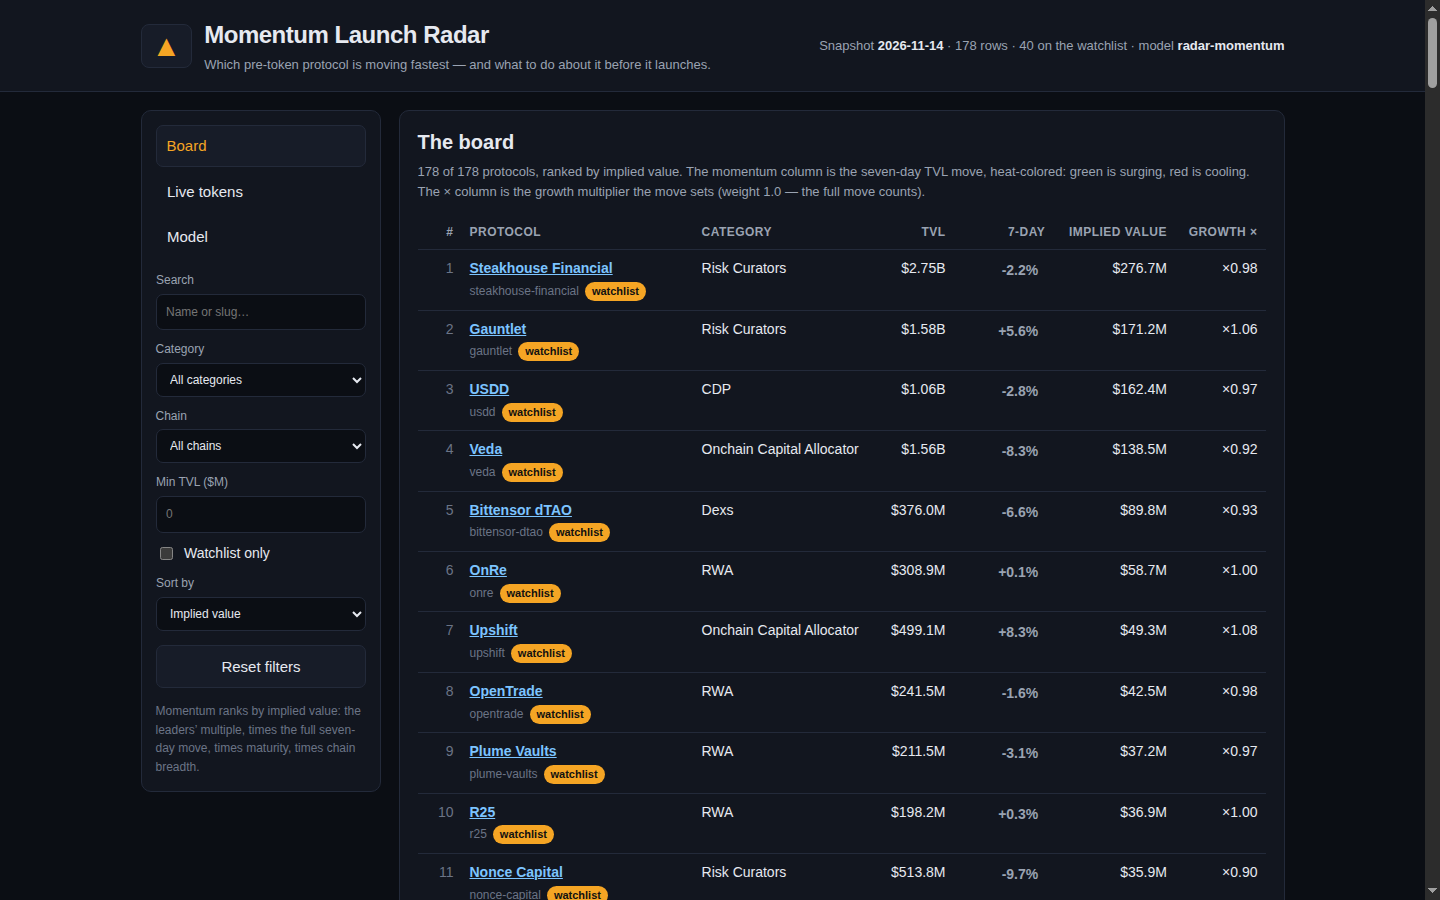
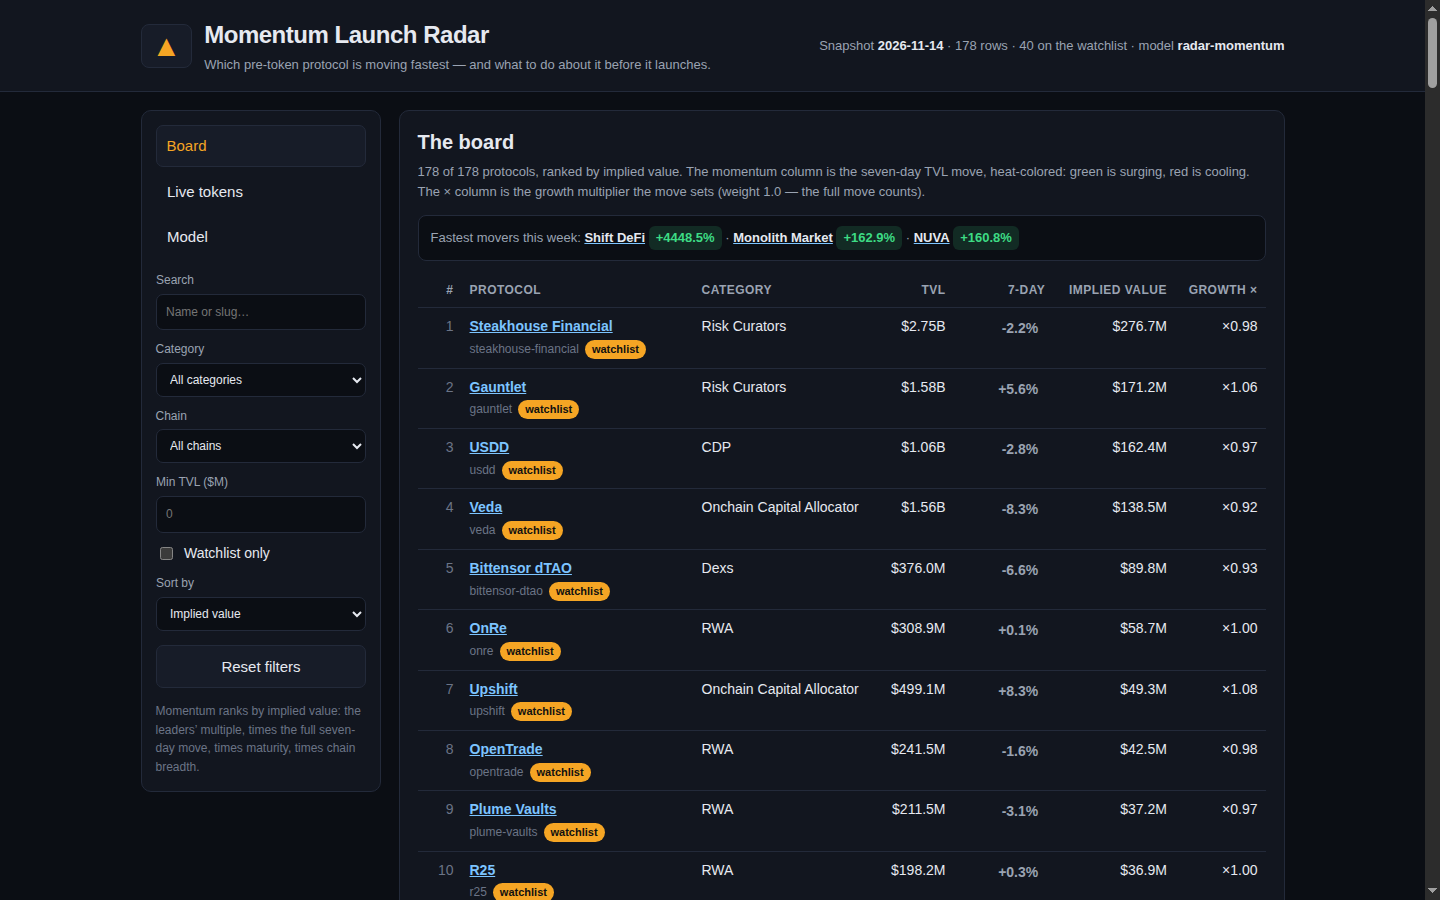
Momentum Launch Radar: fastest-movers strip, fix fallback leaders median

diff --git a/dashboard/app.js b/dashboard/app.js
@@ -168,10 +168,18 @@ function rowHtml(r) {
 
 function renderBoard() {
   var rows = filteredRows();
+  var movers = R.rows.slice().sort(function (a, b) {
+    return (b.change_7d == null ? -Infinity : b.change_7d) - (a.change_7d == null ? -Infinity : a.change_7d);
+  }).slice(0, 3);
+  var moverHtml = movers.map(function (r) {
+    return '<a href="#detail=' + encodeURIComponent(r.slug) + '"><b>' + esc(r.name) + '</b></a> ' +
+      '<span class="heat ' + heatClass(r.change_7d) + '">' + fmtPct(r.change_7d) + '</span>';
+  }).join(' · ');
   var html = '<div class="card"><h2>The board</h2>' +
     '<p class="sub">' + rows.length + ' of ' + R.rows.length + ' protocols, ranked by implied value. ' +
     'The momentum column is the seven-day TVL move, heat-colored: green is surging, red is cooling. ' +
     'The × column is the growth multiplier the move sets (weight 1.0 — the full move counts).</p>' +
+    '<div class="movers">Fastest movers this week: ' + moverHtml + '</div>' +
     '<table><thead><tr><th class="num">#</th><th>Protocol</th><th>Category</th>' +
     '<th class="num">TVL</th><th class="num">7-day</th><th class="num">Implied value</th><th class="num">Growth ×</th></tr></thead><tbody>';
   if (rows.length === 0) html += '<tr><td colspan="7" class="empty">No protocol matches these filters.</td></tr>';

diff --git a/dashboard/app.css b/dashboard/app.css
@@ -118,6 +118,11 @@ ol.steps { margin: 8px 0 0; padding-left: 22px; }
 ol.steps li { margin: 8px 0; }
 ol.steps .cost { color: var(--muted); font-size: 13px; }
 .back { display: inline-block; margin-bottom: 10px; }
+.movers {
+  background: var(--bg); border: 1px solid var(--line); border-radius: 8px;
+  padding: 10px 12px; margin: 0 0 12px; font-size: 13px; color: var(--muted);
+}
+.movers b { color: var(--text); }
 .empty { padding: 30px 10px; text-align: center; color: var(--muted); }
 .foot { border-top: 1px solid var(--line); color: var(--faint); font-size: 12px; padding: 16px 0 26px; }
 .foot p { margin: 0; }
